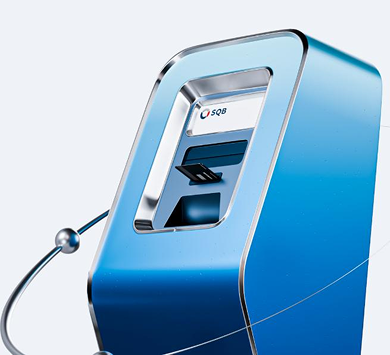
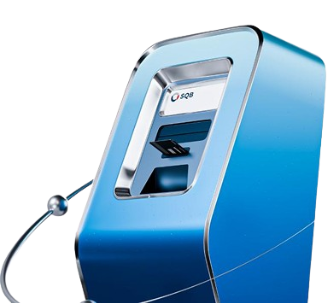
add image

diff --git a/src/Components/Header/Header.jsx b/src/Components/Header/Header.jsx
@@ -1,5 +1,6 @@
 import react from "react";
 import "./Header.scss";
+import bankomat from '../../assets/Image.png'
 
 function Header() {
   return (
@@ -14,8 +15,10 @@ function Header() {
           <b>Tez. Ishonchli. Navbatlarsiz.</b>
           <button>Yaqin bankomatni topish</button>
         </div>
+      <div className="header-bg">
+        <img src={bankomat} alt="" />
       </div>
-      {/* <div className="header-bg"></div> */}
+      </div>
       <div className="header-two-btn">
         <button>Korporativ mijozlar uchun</button>
       </div>

diff --git a/src/Components/Header/Header.scss b/src/Components/Header/Header.scss
@@ -8,6 +8,7 @@ header {
     display: flex;
     justify-content: center;
     align-items: center;
+    flex-direction: column;
     margin-bottom: 40px;
     &-text {
       width: 100%;
